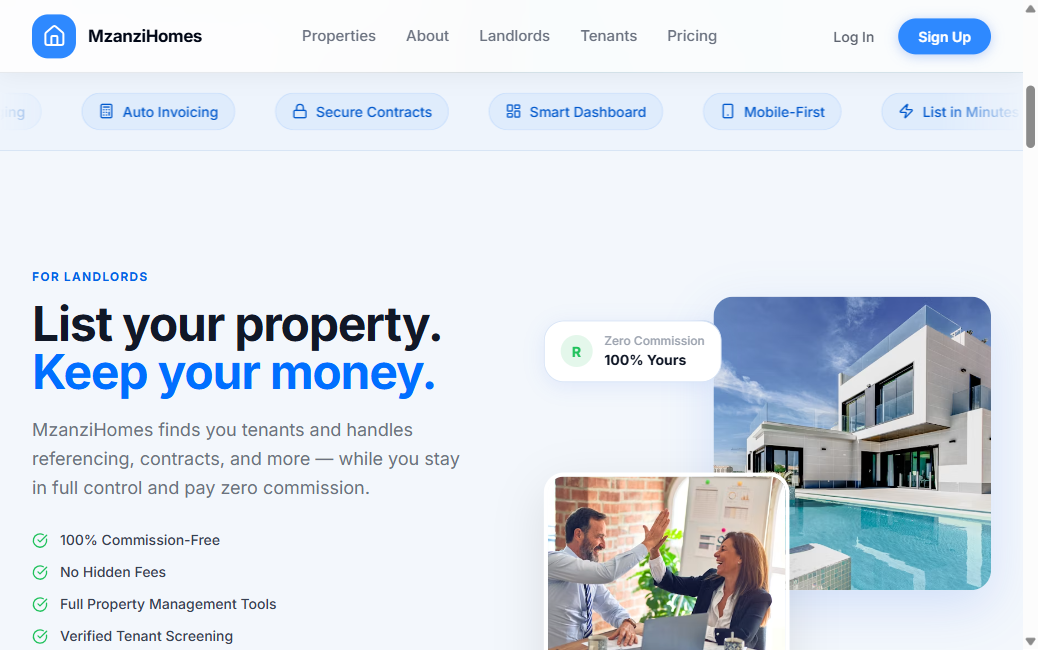
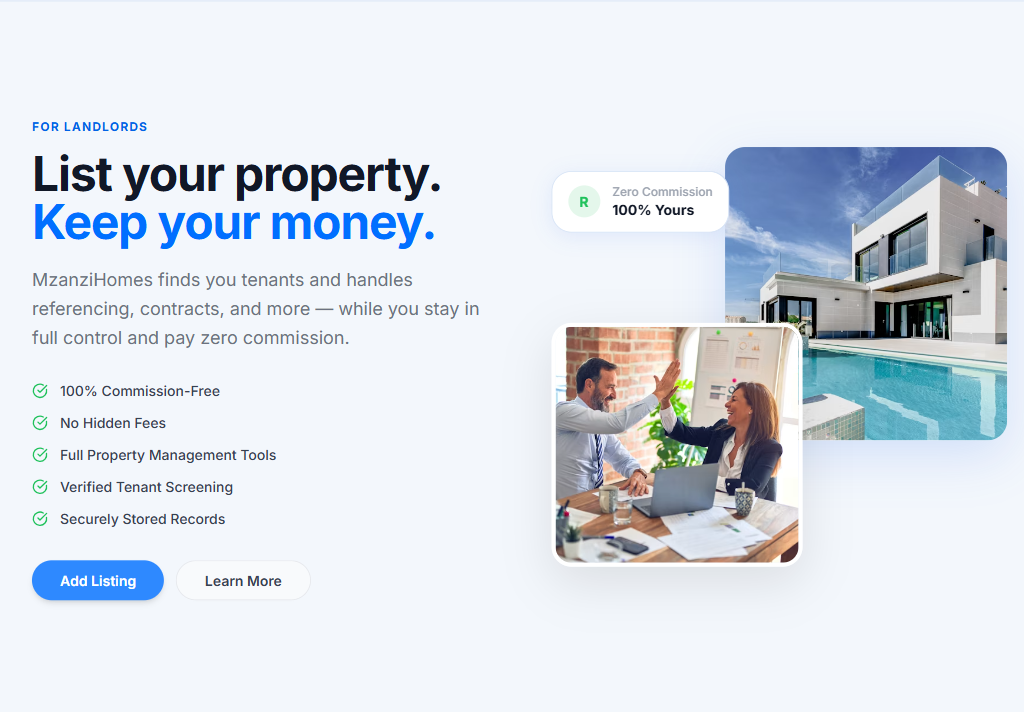
content: remove placeholder projects, fix MzanziHomes gallery shots
Only real client work (MzanziHomes) should appear in the portfolio;
drops the four placeholder case studies and their unused image assets.

Also re-shot the landlord/tenant gallery images with the site's sticky
nav hidden before capture — the previous crops included the nav bar
on both, making them look like two screenshots of the same homepage
instead of two distinct sections.

diff --git a/src/lib/portfolio.ts b/src/lib/portfolio.ts
@@ -26,9 +26,6 @@ export interface Project {
   metrics: Metric[];
 }
 
-const SHOTS = ['/portfolio/placeholders/shot-1.svg', '/portfolio/placeholders/shot-2.svg'];
-
-// NOTE: placeholder content below — swap titles, copy, images and metrics for real work.
 export const projects: Project[] = [
   {
     slug: 'mzanzihomes',
@@ -53,105 +50,6 @@ export const projects: Project[] = [
       { value: 0, suffix: '%', label: 'commission for tenants or landlords' },
       { value: 100, suffix: '%', label: 'built in-house, end-to-end' },
       { value: 2, label: 'dedicated dashboards — landlord & tenant' },
-    ],
-  },
-  {
-    slug: 'northwind-plumbing',
-    title: 'Northwind Plumbing',
-    category: 'Website & Local SEO',
-    year: '2026',
-    summary: 'A trades website that turns local searches into booked call-outs.',
-    heroImage: '/portfolio/northwind-plumbing/hero.svg',
-    gallery: SHOTS,
-    tags: ['SvelteKit', 'Local SEO', 'Lead Capture'],
-    liveUrl: 'https://example.com',
-    featured: true,
-    caseStudy: {
-      challenge:
-        'Northwind relied on word of mouth and a dated one-page site that never showed up for "emergency plumber near me". Enquiries were unpredictable and easy to miss.',
-      approach:
-        'We rebuilt the site around the jobs people actually search for, wired up a quote form that lands straight in their inbox, and set up Google Business and local SEO so nearby customers find them first.',
-      outcome:
-        'Within three months the site ranked on page one for their core local terms and the team was fielding a steady stream of qualified call-out requests.',
-    },
-    metrics: [
-      { prefix: '+', value: 140, suffix: '%', label: 'more enquiries in 3 months' },
-      { value: 1, suffix: 'st', label: 'page Google for core terms' },
-      { value: 24, suffix: '/7', label: 'quote form capture' },
-    ],
-  },
-  {
-    slug: 'cape-coffee-co',
-    title: 'Cape Coffee Co.',
-    category: 'Brand & Website',
-    year: '2026',
-    summary: 'A brand and storefront site for a growing Cape Town roastery.',
-    heroImage: '/portfolio/cape-coffee-co/hero.svg',
-    gallery: SHOTS,
-    tags: ['Branding', 'Web Design', 'Photography'],
-    liveUrl: 'https://example.com',
-    featured: true,
-    caseStudy: {
-      challenge:
-        'Great coffee, forgettable brand. Cape Coffee looked like every other roastery online and could not justify their premium price on the shelf or the screen.',
-      approach:
-        'We built a distinctive visual identity — logo, palette and type — then carried it into a site that tells their sourcing story and makes the beans easy to browse.',
-      outcome:
-        'A coherent brand that finally matches the product, with a site that lifted average order value and wholesale enquiries.',
-    },
-    metrics: [
-      { prefix: '+', value: 32, suffix: '%', label: 'average order value' },
-      { prefix: '+', value: 18, suffix: '', label: 'wholesale enquiries / mo' },
-      { value: 3, suffix: 'x', label: 'time on site vs old' },
-    ],
-  },
-  {
-    slug: 'summit-legal',
-    title: 'Summit Legal',
-    category: 'Website & Lead Capture',
-    year: '2025',
-    summary: 'A credibility-first site that books consultations for a boutique firm.',
-    heroImage: '/portfolio/summit-legal/hero.svg',
-    gallery: SHOTS,
-    tags: ['Web Design', 'Lead Capture', 'Copywriting'],
-    featured: false,
-    caseStudy: {
-      challenge:
-        'A respected firm with a website that undersold them. Prospective clients could not tell what the firm specialised in or how to start a conversation.',
-      approach:
-        'We restructured the site around their practice areas, sharpened the copy to speak to client problems, and added a consultation request flow with clear next steps.',
-      outcome:
-        'A site that reads as senior and trustworthy, with consultation requests arriving pre-qualified and ready to book.',
-    },
-    metrics: [
-      { prefix: '+', value: 90, suffix: '%', label: 'consultation requests' },
-      { value: 2, suffix: 'x', label: 'qualified leads' },
-      { value: 40, suffix: '%', label: 'less admin back-and-forth' },
-    ],
-  },
-  {
-    slug: 'tasklane-app',
-    title: 'TaskLane',
-    category: 'Mobile App',
-    year: '2025',
-    summary: 'A field-service app that keeps technicians and the office in sync.',
-    heroImage: '/portfolio/tasklane-app/hero.svg',
-    gallery: SHOTS,
-    tags: ['iOS', 'Android', 'Product Design'],
-    liveUrl: 'https://example.com',
-    featured: true,
-    caseStudy: {
-      challenge:
-        'Jobs were tracked on paper and WhatsApp. Technicians double-booked, the office chased updates, and nothing was searchable after the fact.',
-      approach:
-        'We designed and built a cross-platform app: technicians see their day, update job status on the move, and the office gets a live view without phoning around.',
-      outcome:
-        'A single source of truth for every job, fewer missed appointments, and an office that finally trusts the schedule.',
-    },
-    metrics: [
-      { value: 60, suffix: '%', label: 'fewer missed jobs' },
-      { value: 4, suffix: 'hrs', label: 'admin saved / week' },
-      { prefix: '+', value: 25, suffix: '%', label: 'jobs completed / day' },
     ],
   },
 ];
